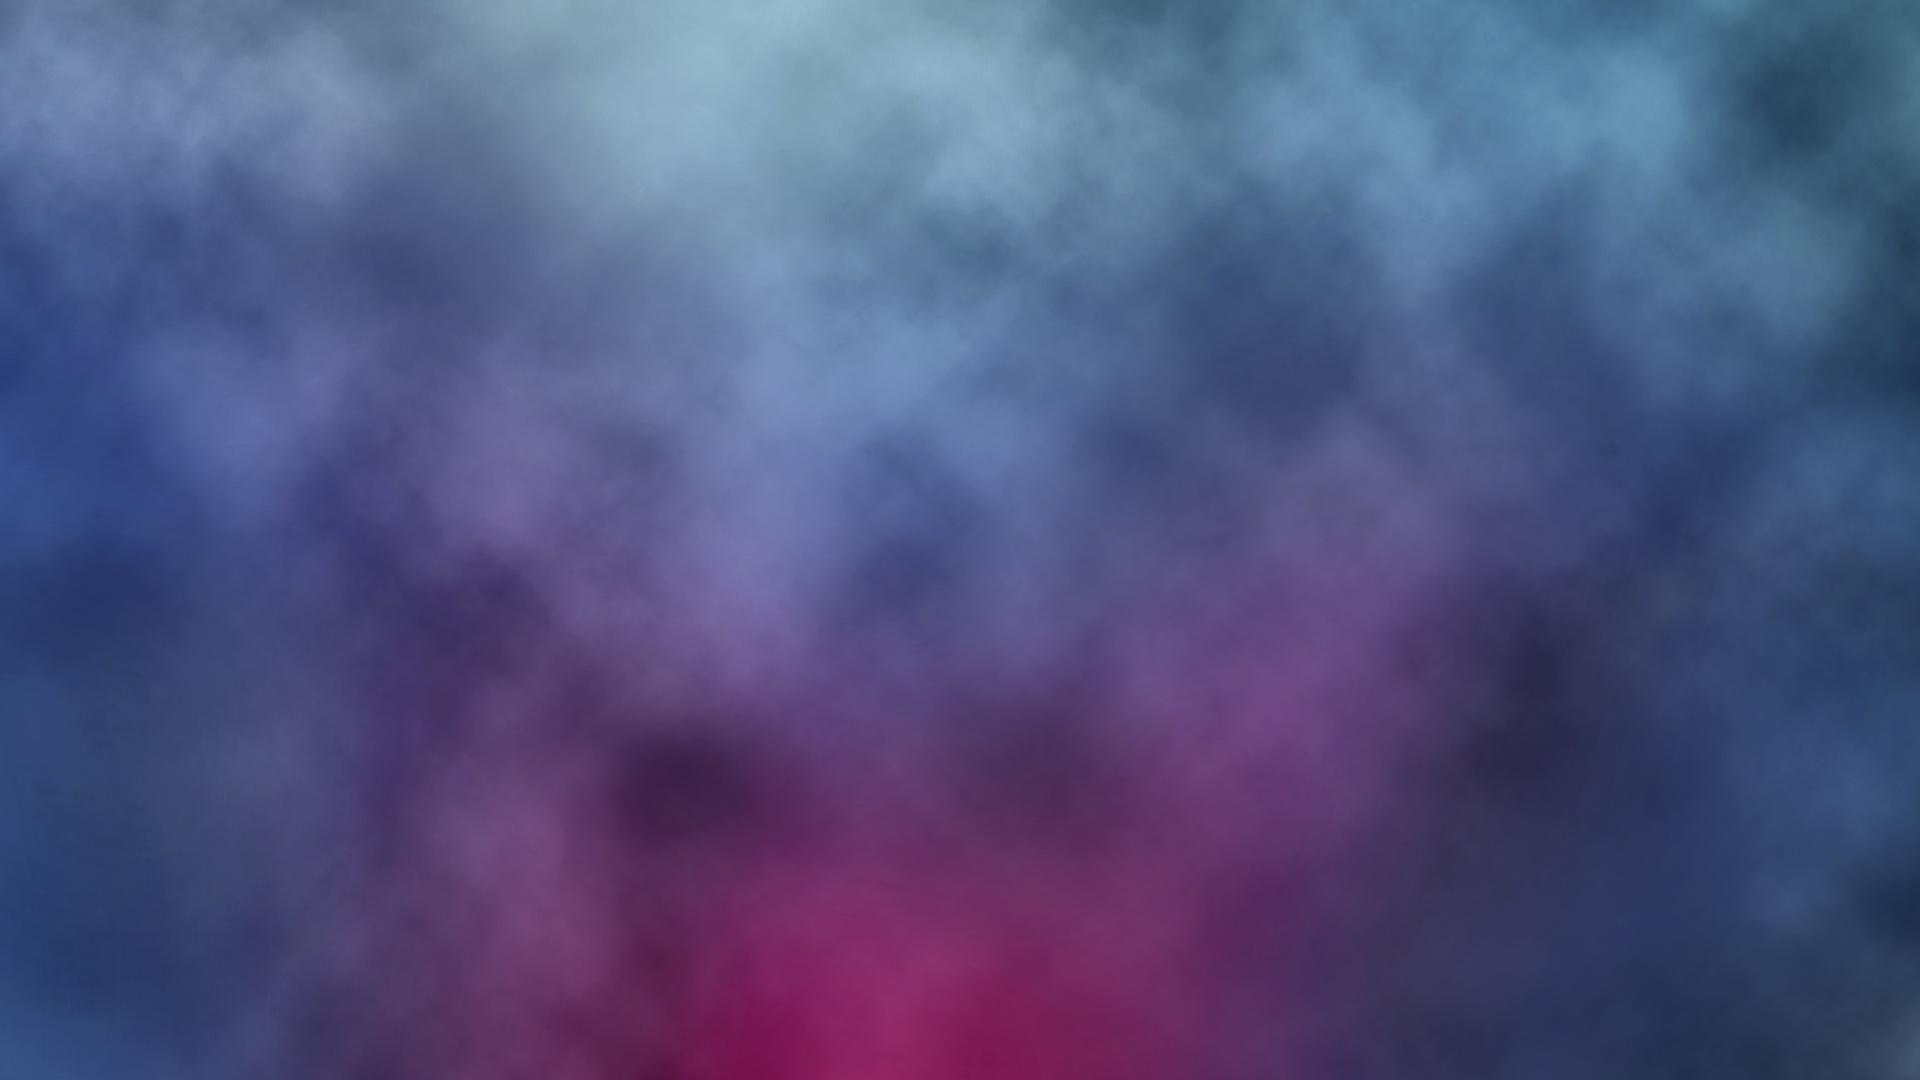
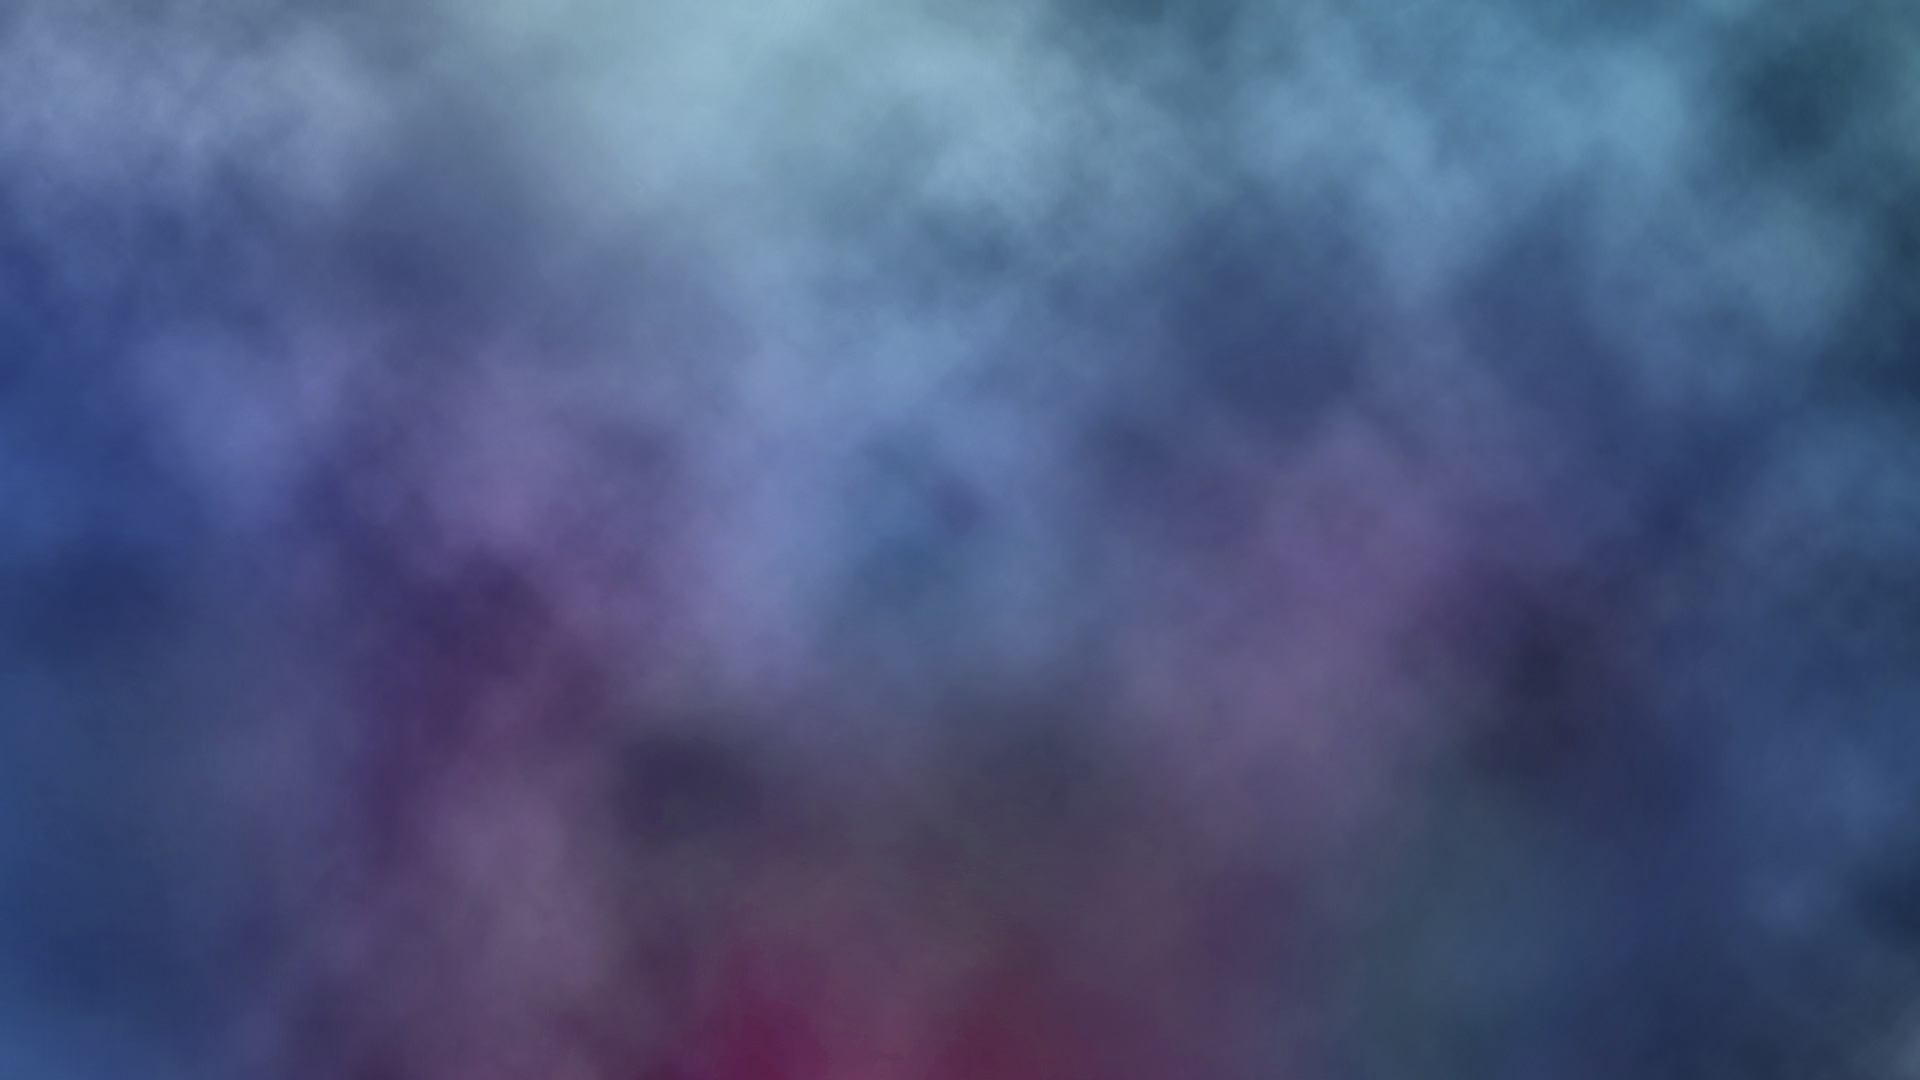
fix new design

Changed region(s): [[0.3438, 0.7333, 0.625, 1.0]]

diff --git a/sass/cityquest.scss b/sass/cityquest.scss
@@ -16,8 +16,8 @@ body {
 		}
 	}
 	&.inner {
-		// background-image: url(../img/content_bg.jpg);
-		background-image: url(../img/Fon_2_Blur.jpg);
+		background-image: url(../img/content_bg.jpg);
+		// background-image: url(../img/Fon_2_Blur.jpg);
 		background-size: cover;
 		/* &.body-quest {
 			background-size: 100%;
@@ -165,6 +165,7 @@ ul.nav.navbar-nav {
 	font-weight: 300;
 	font-size: 12px;
 	padding: 6px 13px 7px 13px;
+	margin-top: 1px;
 	.caret {
 		margin-left: 0;
 		margin-top: -2px;
@@ -214,7 +215,7 @@ ul.nav.navbar-nav {
 	.btn {
 		transition: all .5s;
 		&.ico-msq {
-			padding: 1px 18px 6px 6px;
+			padding: 5px 18px 6px 6px;
 			font-weight: 300;
 			transition:none;
 			text-align: left;
@@ -1049,7 +1050,7 @@ a.descr {
 		font-size: 12px;
 	}
 	span {
-		color: rgba(255,255,255, .1);
+		color: rgba(255,255,255,.3);
 		font-family: "Gotham A", Helvetica, sans-serif;
 		font-size: 28px;
 		font-style: normal;
@@ -1071,13 +1072,13 @@ a.descr {
 	}
 	&.weekend {
 		span em {
-			color: rgba(168,234,255,.7);
+			color: #85d2ed;
 		}
 		span:hover em {
 			color: rgba(168,234,255,1);
 		}
 		small {
-			color:#7ae1ff;
+			color:#85d2ed;
 		}
 	}
 
@@ -1164,6 +1165,7 @@ hr.gradient {
 			}
 			&.dashed {
 				background: url(../img/dot.png) repeat-x left 9px;
+				font-size: 13px;
 			}
 		}
 	}
@@ -1582,7 +1584,7 @@ h2.twotab, a.h2.twotab {
 			background-image: url(../img/dot_bl.png);
 		}
 		&.price {
-			color: #57a3bb;
+			color: #85d2ed;
 		}
 	}
 }
@@ -1740,8 +1742,8 @@ h2.twotab, a.h2.twotab {
 		font-weight: bold;
 		color:#fff;
 		font-size: 16px;
-		background-color: #0c1c29;
-		border-color: #000;
+		background-color: #3a4c6d;
+		border-color: #3a4c6d;
 		margin-bottom: 30px;
 	}
 	.btn-lg {
@@ -2620,9 +2622,12 @@ input:-webkit-autofill, textarea:-webkit-autofill, select:-webkit-autofill {
 
 .form-control {
 	border-radius: 0;
-	background-color: rgba(10, 27, 40, 0.24);
-	border-color: #23323E;
+	background-color: rgba(10, 27, 40, .1);
+	border-color: rgba(10, 27, 40, .4);
 	color:#fff;
+	&::-webkit-input-placeholder {
+		color: rgba(255, 255, 255, 0.4);
+	}
 }
 h1 {
 	color: rgba(255, 255, 255, 0.8);
@@ -2908,4 +2913,8 @@ em.gotham {
 	.jumbotron {
   		margin: 0 auto;
 	}
+}
+.btn-q.disabled, .btn-q[disabled]:not(.myDate) {
+	color: rgba(0,0,0,.2);
+	border: 1px solid rgba(0,0,0,.2);
 }

diff --git a/sass/bootstrap/_variables.scss b/sass/bootstrap/_variables.scss
@@ -31,7 +31,7 @@ $brand-danger:          #d9534f !default;
 //** Background color for `<body>`.
 $body-bg:               #fff !default;
 //** Global text color on `<body>`.
-$text-color:            rgba(255,255,255, 0.6) !default;
+$text-color:            #b4cce9 !default;
 
 //** Global textual link color.
 $link-color:            $brand-primary !default;
